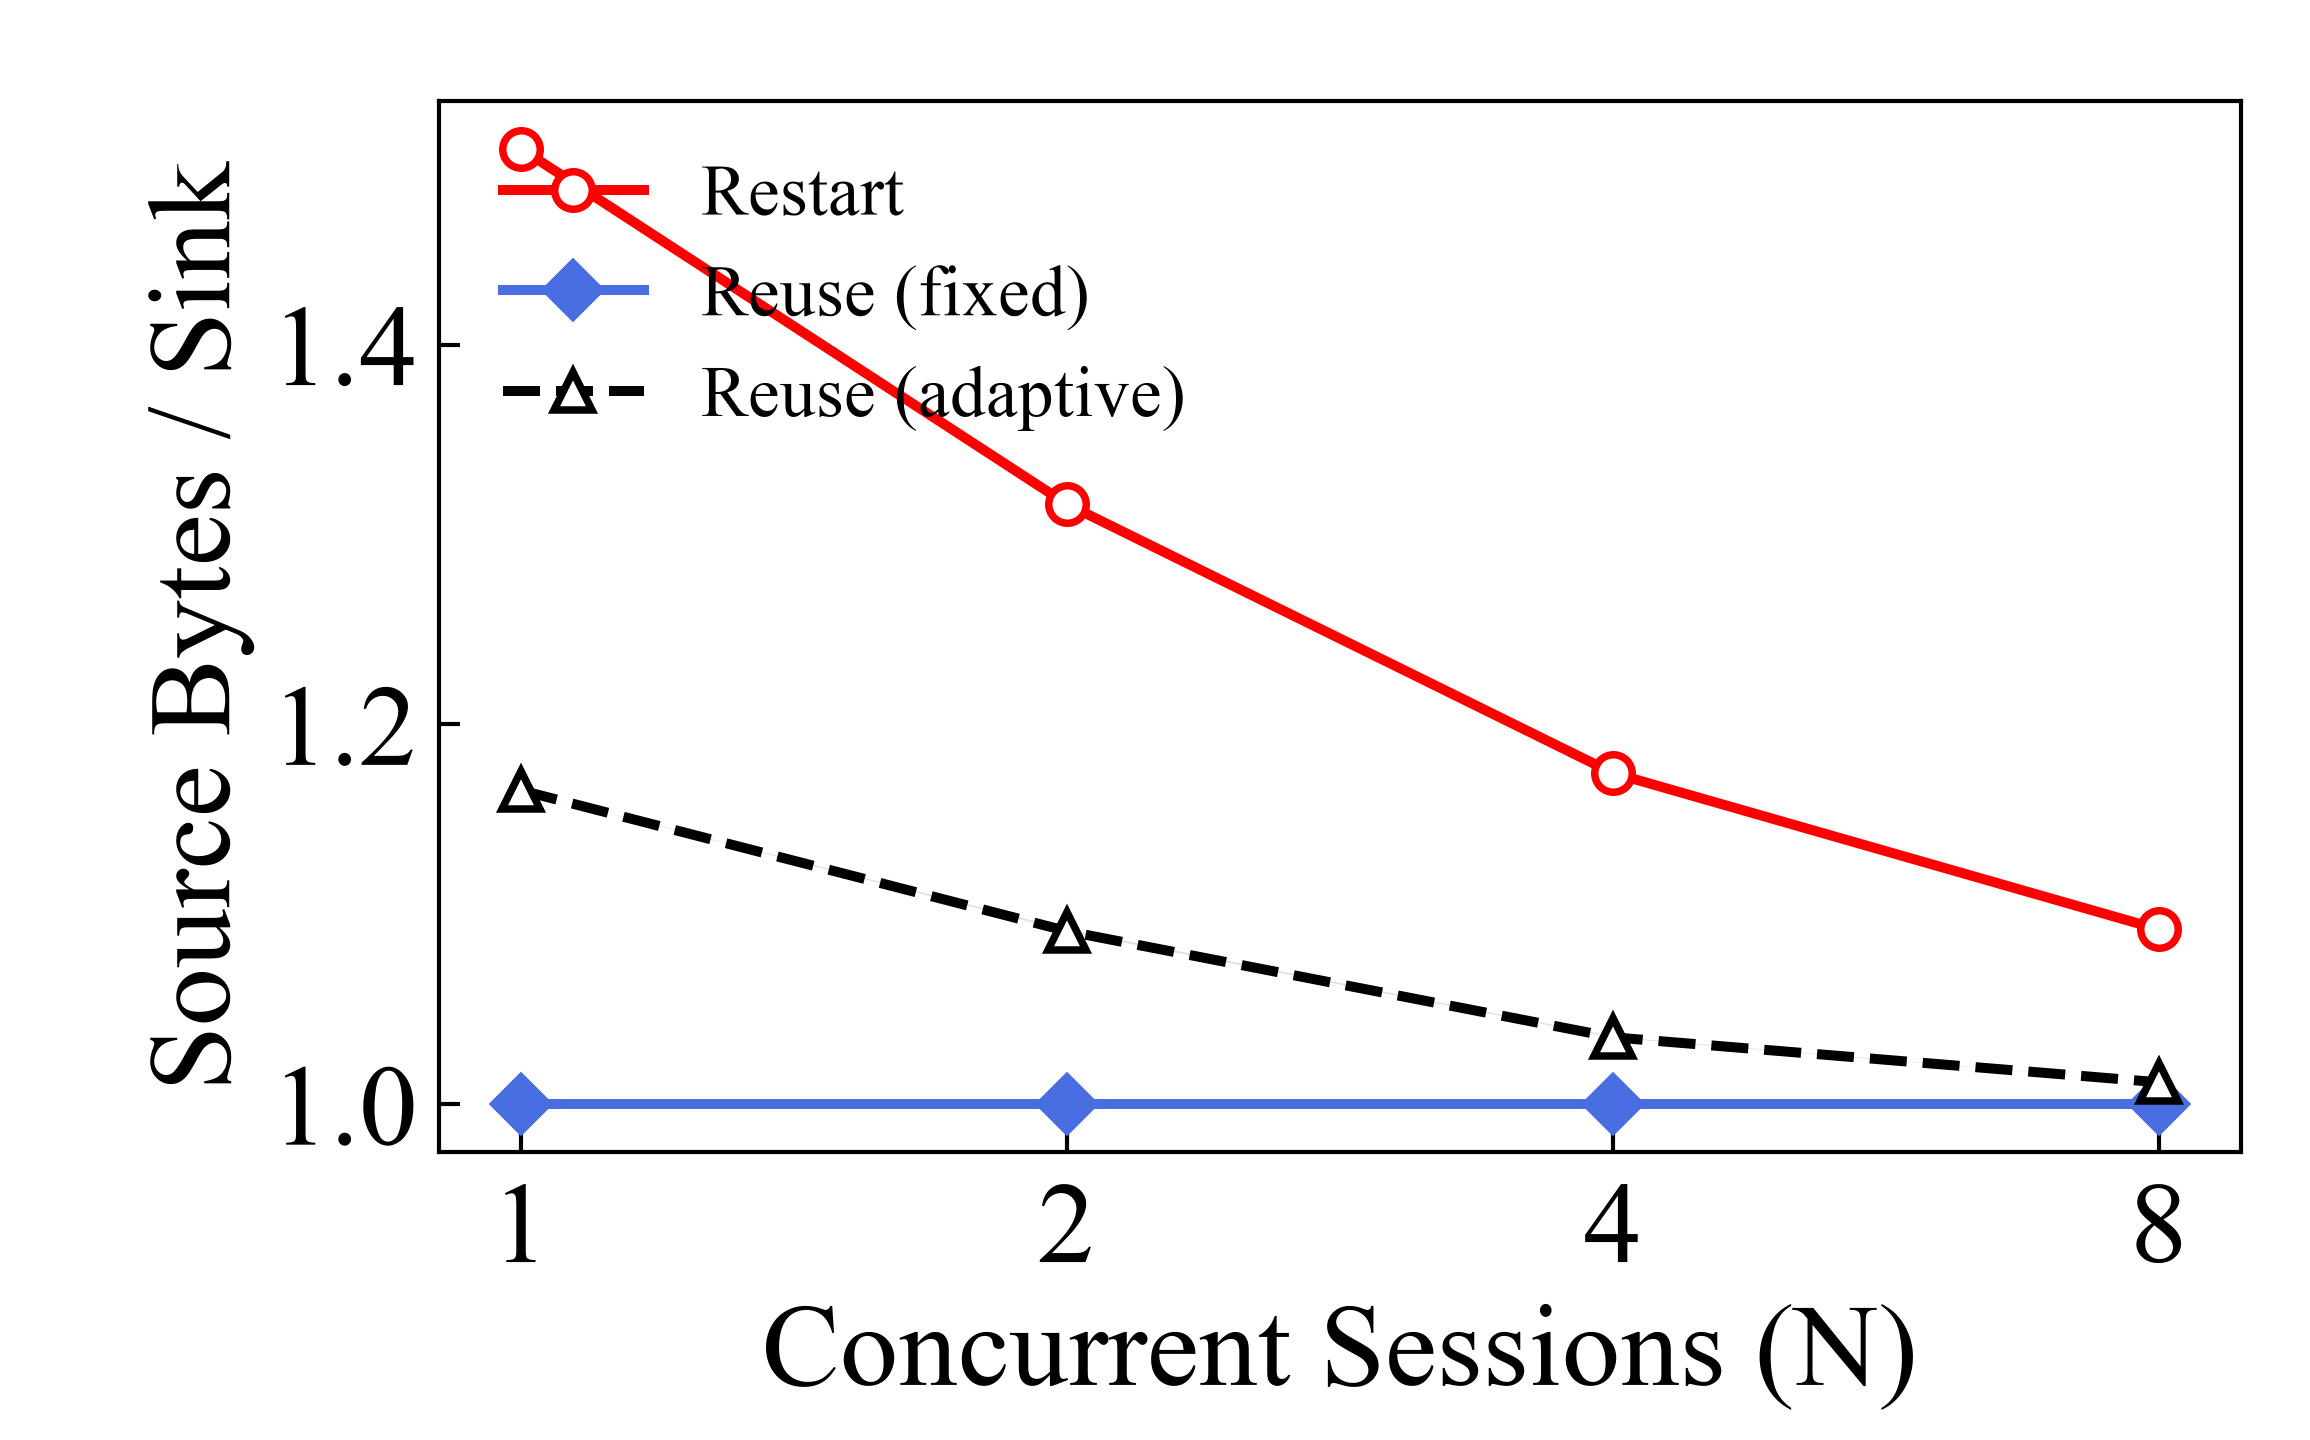
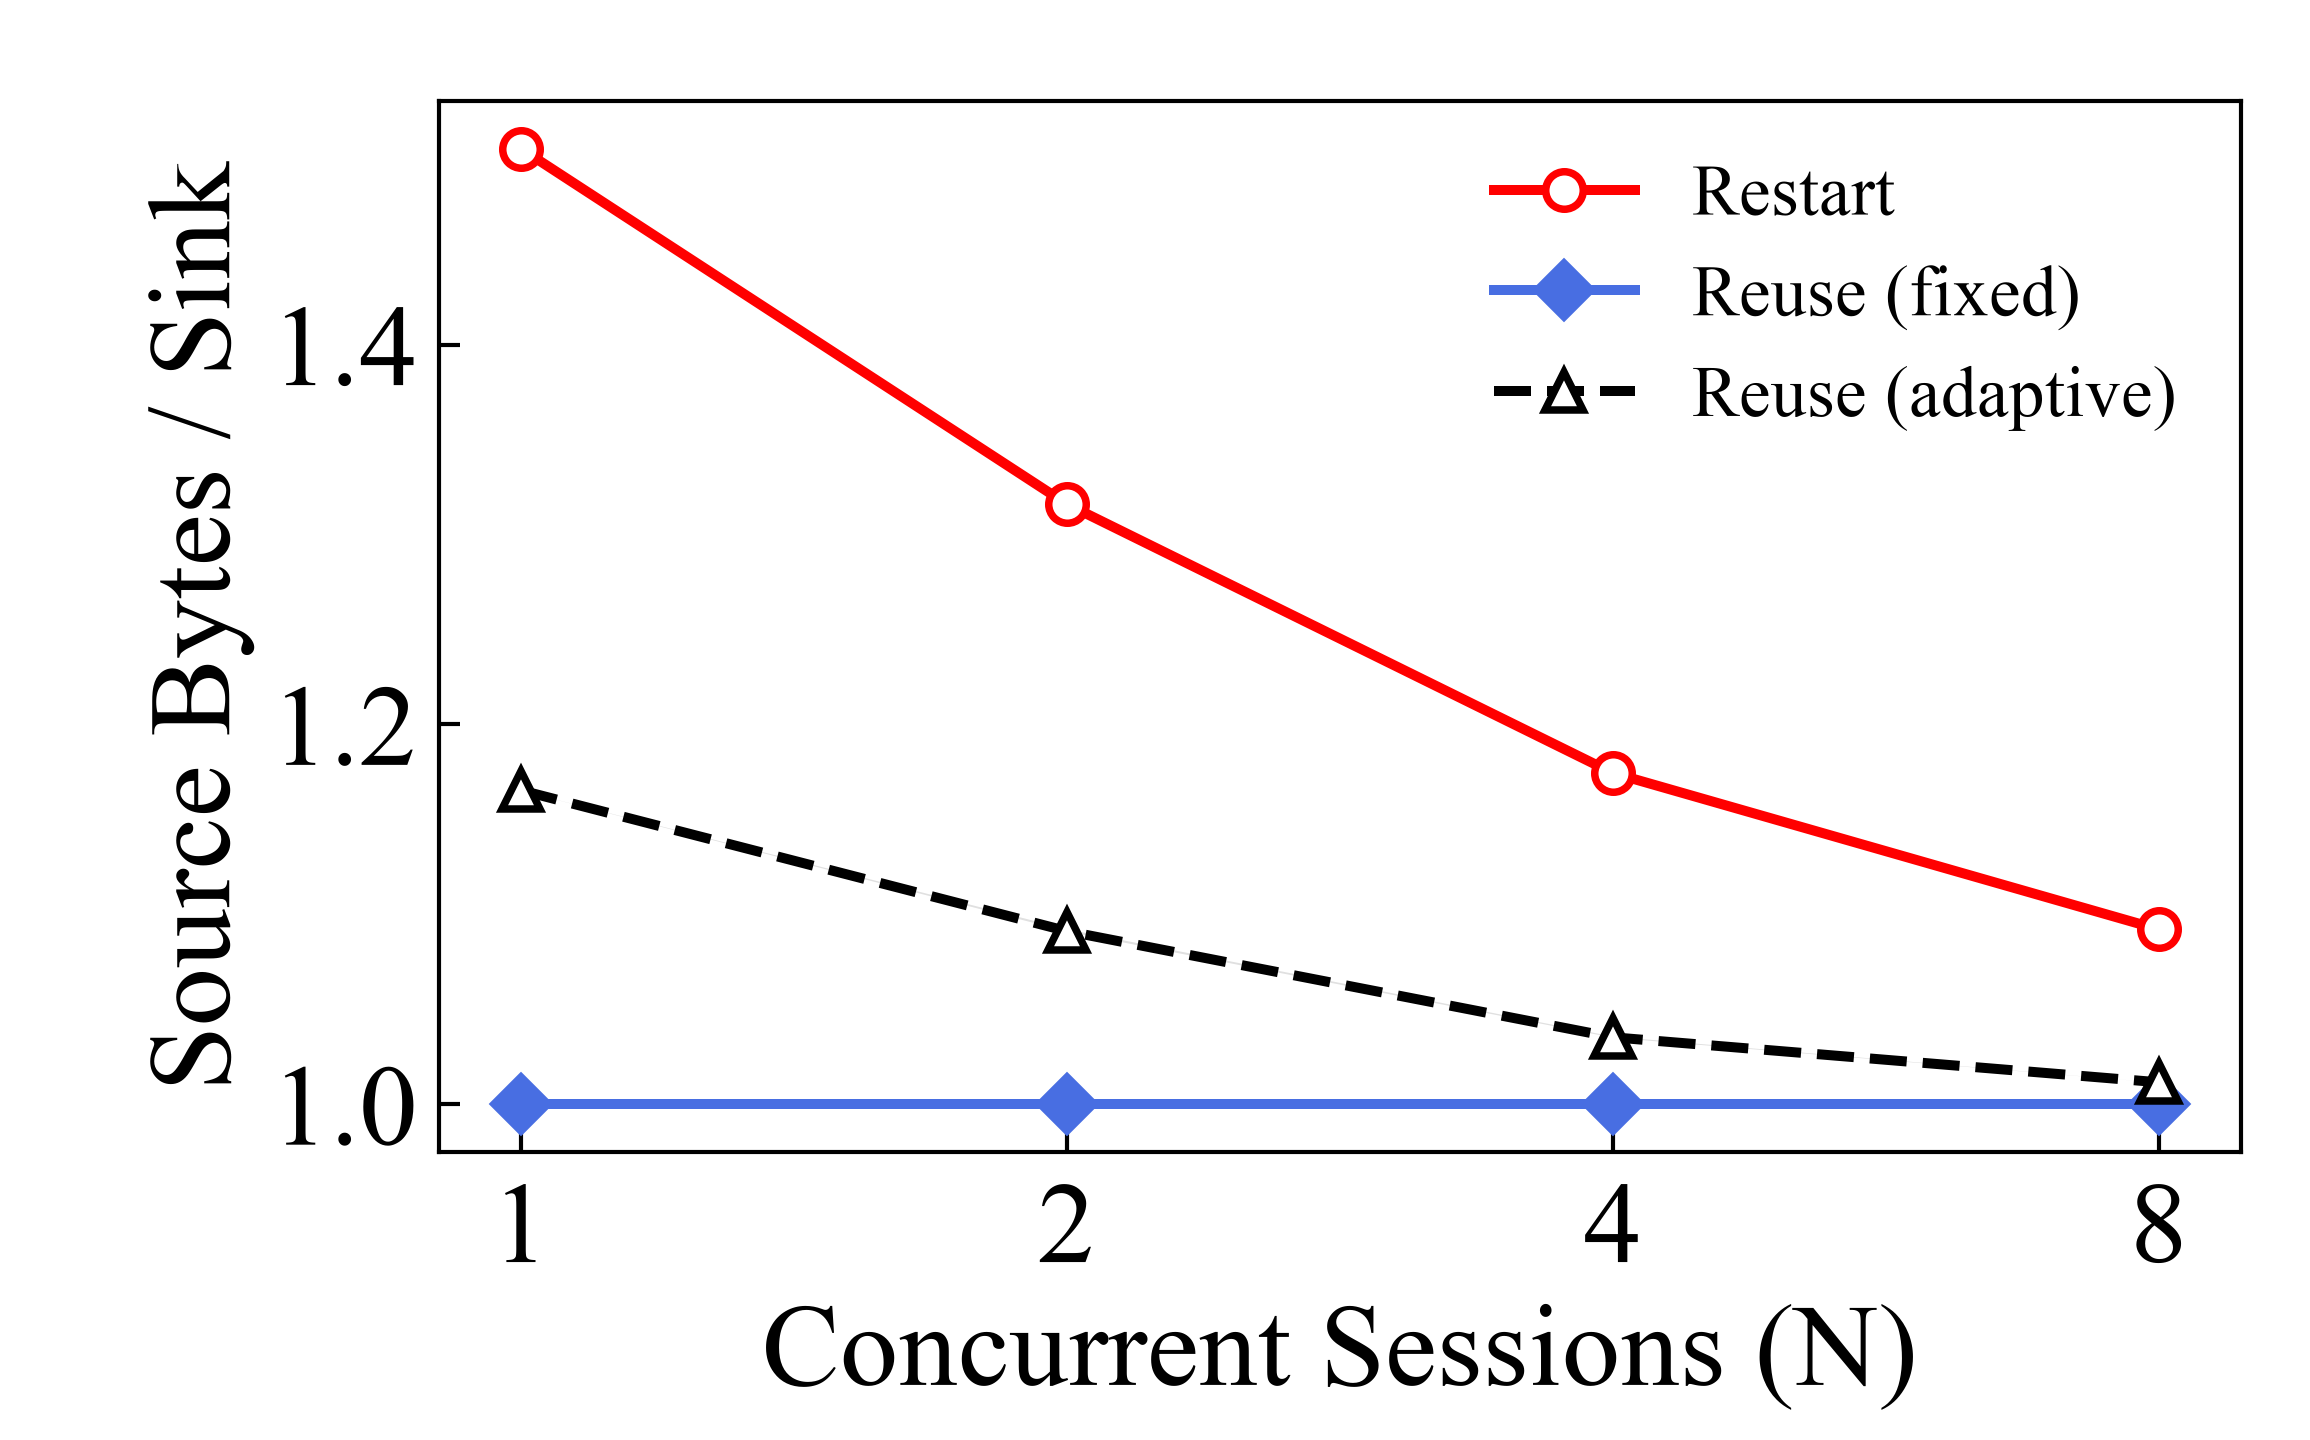
figE7: move legend to upper right so it does not cover the restart line

diff --git a/tools/eval/aggregate_restore.py b/tools/eval/aggregate_restore.py
@@ -114,10 +114,10 @@ def main():
     import matplotlib.pyplot as plt
     bg.configure_matplotlib()
     col = {"restart": bg.RED, "reuse_fixed": bg.BLUE, "reuse_adaptive": bg.BLACK}
-    figs = [("figE6_makespan_vs_N", 1, lambda r: r["makespan_s"], "Restoration Makespan (s)"),
-            ("figE7_source_bytes_vs_N", 1, lambda r: r["normalized"]["source_per_session"], "Source Bytes / Sink"),
-            ("figE7b_coverage_vs_N", 0, lambda r: r["coverage_mean"], "Continuity Coverage")]
-    for name, mv, key, ylabel in figs:
+    figs = [("figE6_makespan_vs_N", 1, lambda r: r["makespan_s"], "Restoration Makespan (s)", "upper left"),
+            ("figE7_source_bytes_vs_N", 1, lambda r: r["normalized"]["source_per_session"], "Source Bytes / Sink", "upper right"),
+            ("figE7b_coverage_vs_N", 0, lambda r: r["coverage_mean"], "Continuity Coverage", "upper left")]
+    for name, mv, key, ylabel, legend_loc in figs:
         fig = plt.figure(figsize=bg.FIG2A_SIZE)
         ax = fig.add_axes(bg.FIG2A_AXES)
         for p, lab, mk, ls in POL:
@@ -131,7 +131,7 @@ def main():
         ax.set_xscale("log", base=2); ax.set_xticks(Ns); ax.set_xticklabels([str(n) for n in Ns]); ax.minorticks_off()
         bg._fig2a_axis(ax, "Concurrent Sessions (N)")
         ax.set_ylabel(ylabel, fontsize=bg.F2_LABEL); ax.tick_params(axis="y", length=5)
-        ax.legend(loc="upper left", frameon=False, prop={"size": bg.F2_ANNOT - 2, "family": bg.FONT_FAMILY})
+        ax.legend(loc=legend_loc, frameon=False, prop={"size": bg.F2_ANNOT - 2, "family": bg.FONT_FAMILY})
         bg.save(fig, root / "figures" / name, tight=False)
 
 
